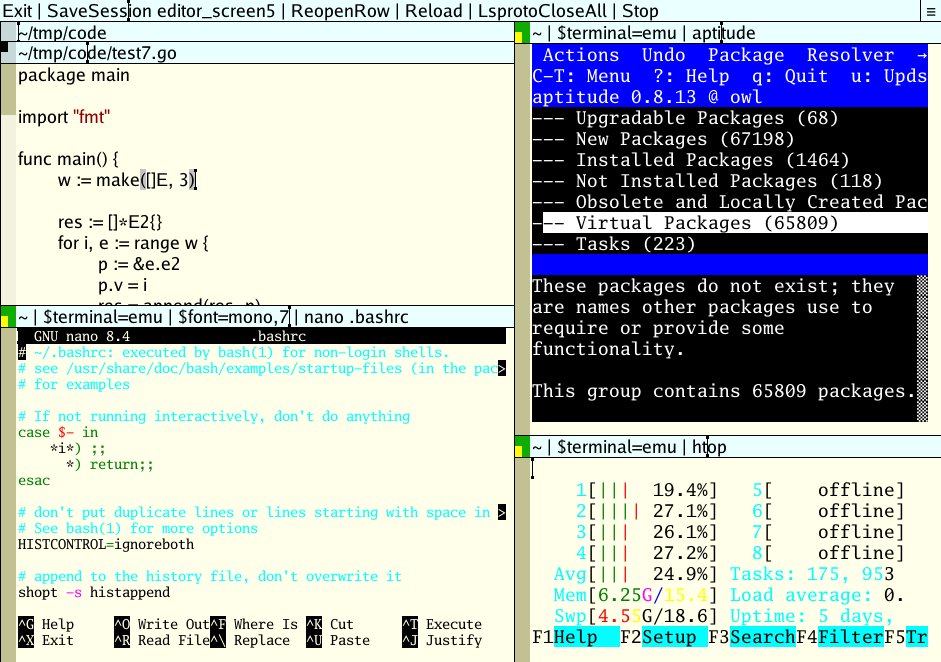
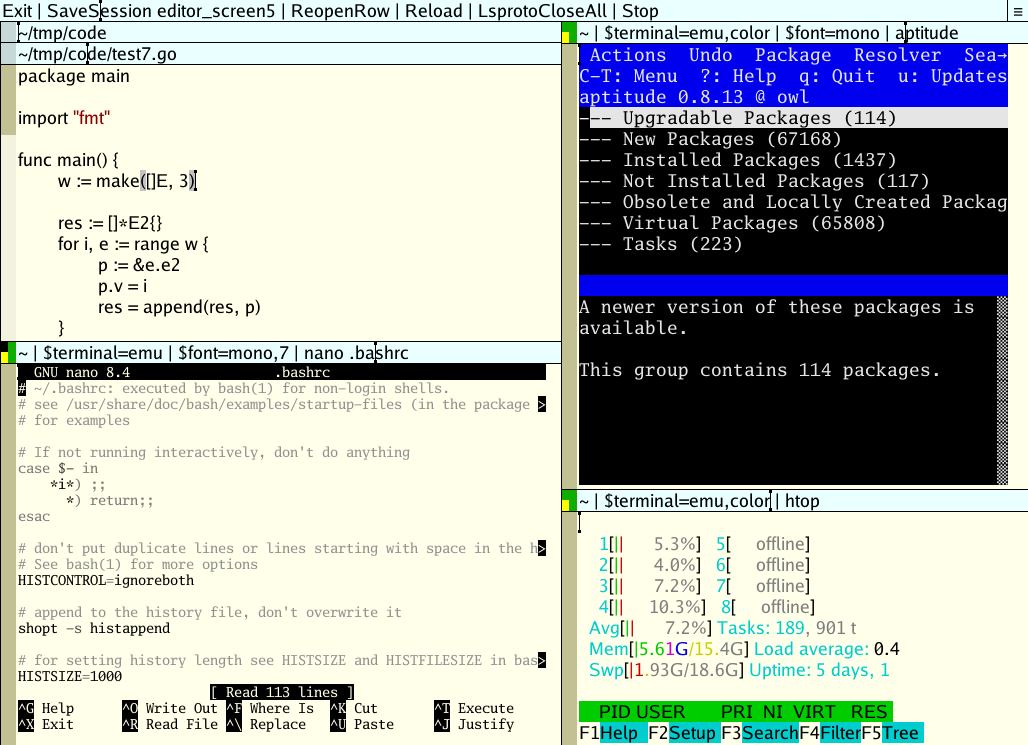
Update readme and screenshot that reflects current defaults.

Changed region(s): [[0.0, 0.0, 1.0, 1.0]]

diff --git a/README.md b/README.md
@@ -275,6 +275,23 @@ These commands run on a row toolbar, or on the top toolbar with the active-row.
 	- If text is selected, only the selection will be considered as the filename to open.
 - `<identifier-in-a-.go-file>`: opens definition of the identifier. Ex: clicking in `Println` on `fmt.Println` will open the file at the line that contains the `Println` function definition.
 
+## Session Files
+
+Sessions can be stored either in the global sessions file or in standalone snapshot files.
+
+Examples:
+
+```text
+editor -sessionfilename project.editor_session
+SaveSessionFile project.editor_session
+OpenSessionFile project.editor_session
+```
+
+Notes:
+- `SaveSession <name>` stores a named session in `~/.editor_sessions.json`.
+- `-sessionfilename` and `*SessionFile` operate on a single session stored in a regular file.
+- If you want multiple session snapshots for the same directory, use multiple files.
+
 ## Commands: GoDebug
 
 Output of `GoDebug -help`:
@@ -648,9 +665,13 @@ The measuring of space is done as follows:
 ## Releases
 - 2026/??/??: v3.13 (work in progress)
 	- added terminal emulator integrated into the editor
-	- added (startmaximized, wrapwordlimit)  options
+	- added `OpenTerminalEmu` command and direct startup with `-startterminalemu`
+	- added `-emuexec` and trailing command support for terminal-emulator startup
+	- added session snapshot files with `-sessionfilename`, `SaveSessionFile` and `OpenSessionFile`
+	- added terminal rows/cols options and color/grayscale rendering options
+	- added (`startmaximized`, `wrapwordlimit`) options
 	- upgraded fsnotify pkg
-	- many small fixes and improvements
+	- many terminal emulator fixes and improvements
 - 2025/08/13: v3.12.0 (23 commmits)
 	- core/inlinecomplete: improved completion
 	- godebug: improved internal testing facilities